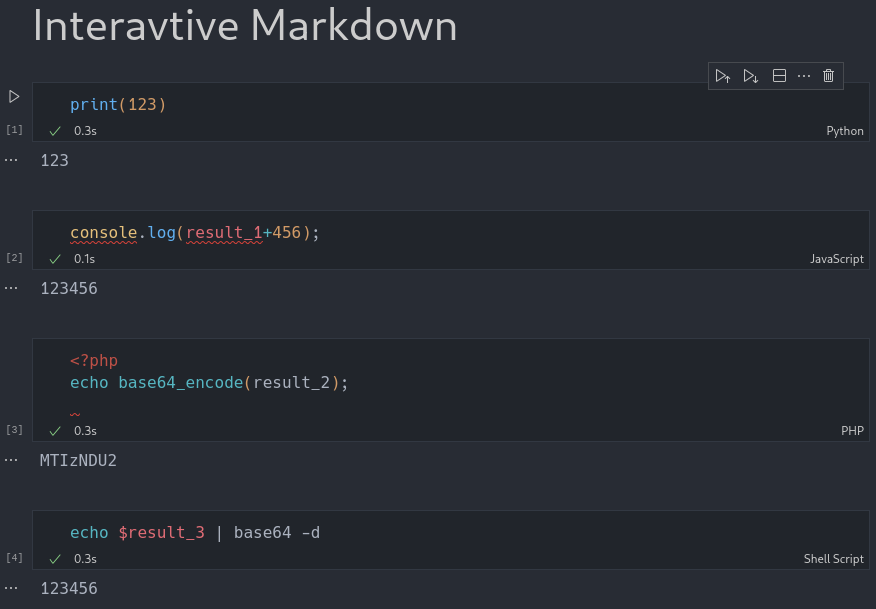
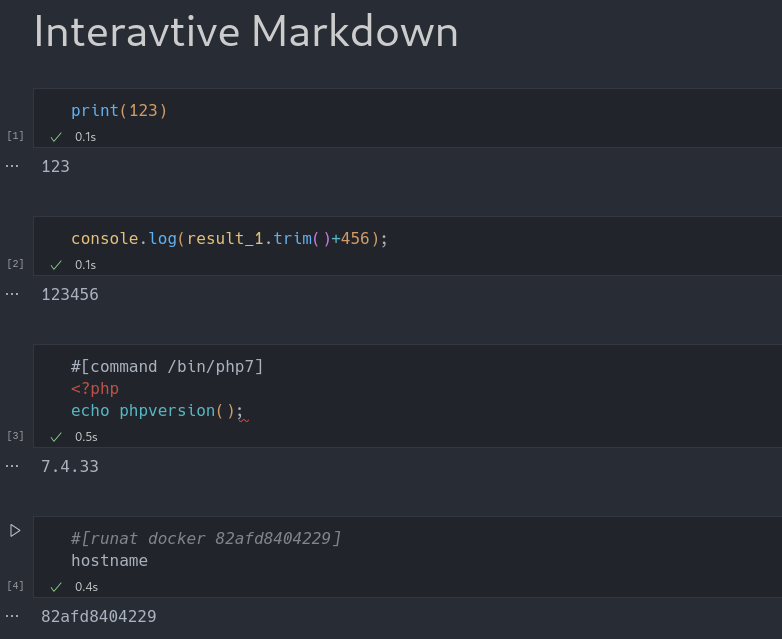
feat: support WSL environment

diff --git a/src/executors/macro/runat.ts b/src/executors/macro/runat.ts
@@ -18,6 +18,10 @@ interface DockerConfig {
     user?: string;
 }
 
+interface WSLConfig {
+    distribution: string;
+}
+
 interface RunatSSHConfig {
     type: 'ssh';
     sshConfig: SSHExportConfig;
@@ -28,15 +32,22 @@ interface RunatDockerConfig {
     dockerConfig: DockerConfig;
 }
 
+interface RunatWSLConfig {
+    type: 'wsl';
+    wslConfig: WSLConfig;
+}
+
 interface RunatLocalConfig {
     type: 'local';
 }
 
-export type RunatConfig = RunatSSHConfig | RunatDockerConfig | RunatLocalConfig;
+export type RunatConfig = RunatSSHConfig | RunatDockerConfig | RunatWSLConfig | RunatLocalConfig;
 
 export const Runat: Directive = class {
     static loadSSHConfig(): Map<string, SSHHostConfig> {
-        const customSSHPath = getConfig().get<string>('sshPath')!.replace(/[/\\]+$/,'');
+        const customSSHPath = getConfig()
+            .get<string>('sshPath')!
+            .replace(/[/\\]+$/, '');
         const sshConfigFile = customSSHPath === '' ? os.homedir() + '/.ssh/config' : customSSHPath + '/config';
         const sshConfigMap = new Map();
         const config = SSHConfig.parse(fs.readFileSync(sshConfigFile).toString());
@@ -58,7 +69,9 @@ export const Runat: Directive = class {
     static makeSSH(input: string): SSHExportConfig {
         const sshConfigMap = this.loadSSHConfig();
         const exportConfig: SSHExportConfig = {};
-        const customSSHPath = getConfig().get<string>('sshPath')!.replace(/[/\\]+$/,'');
+        const customSSHPath = getConfig()
+            .get<string>('sshPath')!
+            .replace(/[/\\]+$/, '');
         let privateKeyPath = customSSHPath === '' ? os.homedir + '/.ssh/id_rsa' : customSSHPath + '/id_rsa';
         if (!fs.existsSync(privateKeyPath)) {
             privateKeyPath = '';
@@ -106,25 +119,60 @@ export const Runat: Directive = class {
         };
     }
 
+    static makeWSL(input?: string): WSLConfig {
+        let res = '';
+        try {
+            res = ChildProcess.execSync('wsl -l -q').toString('utf16le').trim();
+        } catch (e) {
+            throw new Error('install wsl first');
+        }
+        if (res === '') {
+            throw new Error('register at least one WSL distribution');
+        }
+        const distributions = res.split('\n');
+        if (distributions.length === 1 && input === undefined) {
+            return { distribution: distributions[0] };
+        }
+        if (input) {
+            for (const i of distributions) {
+                if (i === input.trim()) {
+                    return { distribution: i };
+                }
+            }
+            throw new Error(`WSL distribution ${input} not found`);
+        } else {
+            throw new Error('WSL distribution must be specified');
+        }
+    }
+
     static parse(line: string): RunatConfig {
         // runat ssh url
         // runat ssh server
         // runat docker container-id [user]
         // runat docker container-name [user]
+        // runat wsl [distribution]
         const s = line.split(/ +/);
-        if (s.length < 3) {
-            throw new Error('runat need 3 arguments');
-        }
         switch (s[1]) {
             case 'ssh':
+                if (s.length < 3) {
+                    throw new Error('ssh need one argument');
+                }
                 return {
                     type: 'ssh',
                     sshConfig: this.makeSSH(s[2])
                 };
             case 'docker':
+                if (s.length < 3) {
+                    throw new Error('docker need one argument at least');
+                }
                 return {
                     type: 'docker',
                     dockerConfig: this.makeDocker(s[2], s[3])
+                };
+            case 'wsl':
+                return {
+                    type: 'wsl',
+                    wslConfig: this.makeWSL(s[2])
                 };
             case 'local':
                 return {

diff --git a/src/executors/executorProxy.ts b/src/executors/executorProxy.ts
@@ -21,9 +21,14 @@ export interface DockerOptions {
     user?: string;
 }
 
-async function genFilename() {
+export interface WSLOptions {
+    distribution: string;
+}
+
+async function genFilename(dir?:string) {
+    const tmpdir = dir ?? os.tmpdir();
     for (let i = 0; i < 25; i++) {
-        const t = path.join(os.tmpdir(), 'code-runner-' + randomBytes(6).toString('hex'));
+        const t = path.join(tmpdir, 'code-runner-' + randomBytes(6).toString('hex'));
         try {
             await fs.access(t);
         } catch (e: any) {
@@ -225,5 +230,50 @@ export class DockerExecutorProxy extends ExecutorProxy {
                 }
             });
         });
+    }
+}
+
+export class WSLExecutorProxy extends ExecutorProxy {
+    private _localTempFile: string;
+    private _process?: ChildProcess.ChildProcessWithoutNullStreams;
+    private _distro: string;
+    constructor(wslOptions: WSLOptions) {
+        super();
+        this._localTempFile = '';
+        this._distro = wslOptions.distribution;
+    }
+    async writeFile(data: string): Promise<void> {
+         // assuming that all WSL distro use /tmp as a temporary directory
+        this._localTempFile = await genFilename(`//wsl$/${this._distro}/tmp/`);
+        this._tempFilepath = '/tmp/' + path.basename(this._localTempFile);
+        await fs.writeFile(this._localTempFile, data);
+    }
+    spawnProcess(command: string, args: string[], options: SpawnOptions): Promise<number> {
+        // TODO: support environment variables ?
+        // TODO: prevent command injection ?
+        const wslCommand = `wsl -d ${this._distro} exec ${this.formatCommand(command)}`;
+        return new Promise((resolve, reject) => {
+            this._process = ChildProcess.spawn(wslCommand, [], { shell: true });
+            this._process.stdout.on('data', (data) => options.onStdout(data));
+            this._process.stderr.on('data', (data) => options.onStderr(data));
+            this._process.on('close', function (code) {
+                resolve(code ?? 0);
+            });
+            this._process.on('error', function (err) {
+                reject(err);
+            });
+        });
+    }
+    killProcess(): Promise<void> {
+        return new Promise((resolve, reject) => {
+            if (this._process && !this._process.killed && this._process.pid) {
+                treeKill(this._process.pid, function (err) {
+                    err === undefined ? resolve() : reject(err);
+                });
+            }
+        });
+    }
+    async cleanup(): Promise<void> {
+        await fs.unlink(this._localTempFile);
     }
 }

diff --git a/src/executors/index.ts b/src/executors/index.ts
@@ -2,7 +2,7 @@
 import * as vscode from 'vscode';
 import { languages, LanguageSupport } from './languageSupport';
 import { getExecutorsConfig } from '../utils';
-import { DockerExecutorProxy, ExecutorProxy, LocalExecutorProxy, SSHExecutorProxy } from './executorProxy';
+import { DockerExecutorProxy, ExecutorProxy, LocalExecutorProxy, SSHExecutorProxy, WSLExecutorProxy } from './executorProxy';
 import { macroProcess, Config as MacroConfig } from './macro';
 
 export class RunnerOptions {
@@ -95,6 +95,8 @@ export class CodeExecutor {
                     return new SSHExecutorProxy(runat.sshConfig);
                 case 'docker':
                     return new DockerExecutorProxy(runat.dockerConfig);
+                case 'wsl':
+                    return new WSLExecutorProxy(runat.wslConfig);
                 default:
                     return new LocalExecutorProxy();
             }

diff --git a/README.md b/README.md
@@ -24,16 +24,18 @@
 
 现在支持的宏：
 
-- runat 指定运行的环境，支持ssh、docker和local。
+- runat 指定运行的环境，支持ssh、docker、WSL和local。
 ssh指令可以使用`$HOME/.ssh/config`内定义的host，或者使用url的形式创建连接，在远程环境中执行代码。如果没有指定密码或`$HOME/.ssh/id_rsa`私钥认证失败，则会弹出密码输入框要求再次输入密码。
 docker指令可以指定容器的名称或者id，如果容器存在且正在运行，那么会在容器环境内执行代码。同时还可以指定执行时的用户。
 local指令为默认的本地执行环境，可以省略。
+wsl指令可以指定发行版，如果该发行版存在，那么代码会在对应的WSL环境内运行。如果WSL只有一个发行版，那么可以省略发行版参数。
 ```
 #[runat ssh server]
 #[runat ssh username:password@host:port]
 #[runat docker container-id username]
 #[runat docker container-name]
 #[runat local]
+#[runat wsl]
 ```
 
 - command 覆盖配置的执行器路径和参数，%p可以省略，如果省略则会把脚本文件拼接到末尾。

diff --git a/example/example.md b/example/example.md
@@ -7,22 +7,23 @@ print(123)
 123
 ```
 ```js
-console.log(result_1+456);
+console.log(result_1.trim()+456);
 ```
 ```result_2: text/plain
 123456
 ```
 ```php
+#[command /bin/php7]
 <?php
-echo base64_encode(result_2);
-
+echo phpversion();
 ```
 ```result_3: text/plain
-MTIzNDU2
+7.4.33
 ```
 ```bash
-echo $result_3 | base64 -d
+#[runat docker 82afd8404229]
+hostname
 ```
 ```result_4: text/plain
-123456
+82afd8404229
 ```
